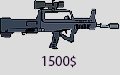
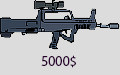
i hate this balance

Changed region(s): [[0.325, 0.7467, 0.475, 0.88]]

diff --git a/Shooter2D/Source/Enemies.cpp b/Shooter2D/Source/Enemies.cpp
@@ -191,7 +191,7 @@ float DiagonalMovingEnemy::maxFrame() const
 }
 
 JumpingEnemy::JumpingEnemy(const sf::Vector2f& pos)
-	: Enemy(TextureFactory::getInstance().loadFromFile("Resources/Images/enemie3.png"), pos, 10),
+	: Enemy(TextureFactory::getInstance().loadFromFile("Resources/Images/enemie3.png"), pos, 15),
 	  timer(),
 	  onGround(false)
 {
@@ -288,7 +288,7 @@ float JumpingEnemy::maxFrame() const
 }
 
 StrongEnemy::StrongEnemy(const sf::Vector2f& pos)
-	: Enemy(TextureFactory::getInstance().loadFromFile("Resources/Images/enemie4.png"), pos, 15)
+	: Enemy(TextureFactory::getInstance().loadFromFile("Resources/Images/enemie4.png"), pos, 25)
 {
 	init();
 }
@@ -306,8 +306,8 @@ float StrongEnemy::maxFrame() const
 int WeakEnemy::width()                 const { return 27; }
 int WeakEnemy::height()                const { return 42; }
 unsigned int WeakEnemy::moneyForHit()  const { return 10; }
-float WeakEnemy::speed()               const { return 0.06f; }
 float WeakEnemy::frameChangeSpeed()    const { return 0.015f; }
+float WeakEnemy::speed()               const { return 0.06f; }
 
 int DiagonalMovingEnemy::width()                 const { return 27; }
 int DiagonalMovingEnemy::height()                const { return 42; }
@@ -323,6 +323,6 @@ float JumpingEnemy::speed()			      const { return 0.08f; }
 int StrongEnemy::width()                 const { return 90; }
 int StrongEnemy::height()                const { return 63; }
 unsigned int StrongEnemy::moneyForHit()  const { return 30; }
-float StrongEnemy::speed()               const { return 0.05f; }
 float StrongEnemy::frameChangeSpeed()    const { return 0.015f; }
+float StrongEnemy::speed()               const { return 0.13f; }
 

diff --git a/Shooter2D/Source/Level.cpp b/Shooter2D/Source/Level.cpp
@@ -104,7 +104,7 @@ void Level::generateEnemies()
 // #define STRESS_TEST 
 // for stress testing
 #ifdef STRESS_TEST
-	constexpr uint8_t numberOfEnemies = 100;
+	constexpr uint8_t numberOfEnemies = 1000;
 
 	if (pWave->clock.getElapsedTime().asMilliseconds() >= pWave->generationDelay)
 	{
@@ -117,25 +117,30 @@ void Level::generateEnemies()
 		pWave->currentEnemiesCount += numberOfEnemies;
 	}
 #else
+
 	if (pWave->enemiesKilled == pWave->waveOverallEnemiesCount)
 	{
 		if (!(++pWave->wave % 5))
 		{
-			pWave->minEnemiesCount++;
+			pWave->minEnemiesCount += 3;
 			pEnemiesFactory->increseAllowedEnemiesTypes();
 		}
 
 		pWave->enemiesKilled = 0;
-		pWave->waveOverallEnemiesCount++;
+		pWave->waveOverallEnemiesCount += pWave->wave;
 		pGameInfo->incWave();
 
-		pWave->generationDelay -= pWave->GenerationDelayDec;
+		pWave->generationDelay -= pWave->generationDelay / 10;
 		if (pWave->generationDelay < pWave->GenerationDelayLimit)
 		{
 			pWave->generationDelay = pWave->GenerationDelayLimit;
 		}
 	}
 	
+	if (pWave->wave == 13) {
+		pWave->minEnemiesCount += 10;
+	}
+
 	if ((pWave->clock.getElapsedTime().asMilliseconds() >= pWave->generationDelay &&
 		pWave->currentEnemiesCount + pWave->enemiesKilled < pWave->waveOverallEnemiesCount) ||
 		(pWave->currentEnemiesCount < pWave->minEnemiesCount &&

diff --git a/Shooter2D/Source/ShootingControl.cpp b/Shooter2D/Source/ShootingControl.cpp
@@ -28,22 +28,16 @@ ShootingControl::ShootingControl(const sf::Vector2f& position, std::shared_ptr<G
 void ShootingControl::initGuns()
 {
 	sf::Int32 reloadingTime = 2000;
-	sf::Int32 delay = 1000;
-	unsigned int price = 500; 
+	sf::Int32 delay = 800;
+	unsigned int price = 0; 
 	unsigned char numberOfShots = 8;
 	unsigned char damage = 1;
+	guns.emplace_back(2000, delay, 0, 8, 1);
+	guns.emplace_back(2000, 400, 1000, 16, 1);
+	guns.emplace_back(2000, 200, 5000, 24, 2);
+	guns.emplace_back(1500, 100, 10000, 32, 2);
+	guns.emplace_back(1250, 50, 15000, 48, 3);
 
-	for (int i = 0; i < GunsNumber; i++)
-	{
-		guns.emplace_back(reloadingTime, delay, price, numberOfShots, damage);
-		reloadingTime += 500;
-		price +=500;
-		numberOfShots += 4;
-		delay -= 100;
-		damage++;
-	}
-
-	guns[0].price = 0;
 }
 
 void ShootingControl::initText(sf::Text* pText, const sf::Font* pFont, const sf::Color& color, const std::string& string, unsigned int characterSize)

diff --git a/Shooter2D/Source/Level.h b/Shooter2D/Source/Level.h
@@ -51,7 +51,7 @@ private:
 	{
 		sf::Clock clock;
 		const sf::Int32 GenerationDelayDec = 100;
-		const sf::Int32 GenerationDelayLimit = 2000;
+		const sf::Int32 GenerationDelayLimit = 200;
 		sf::Int32 generationDelay = 5000;
 		unsigned short wave = 0;
 		unsigned short enemiesKilled = 0;

diff --git a/Shooter2D/Source/Player.cpp b/Shooter2D/Source/Player.cpp
@@ -141,7 +141,7 @@ int Player::height() const
 
 float Player::speed() const
 {
-	return 0.12f;
+	return 0.18f;
 }
 
 float Player::frameChangeSpeed() const
